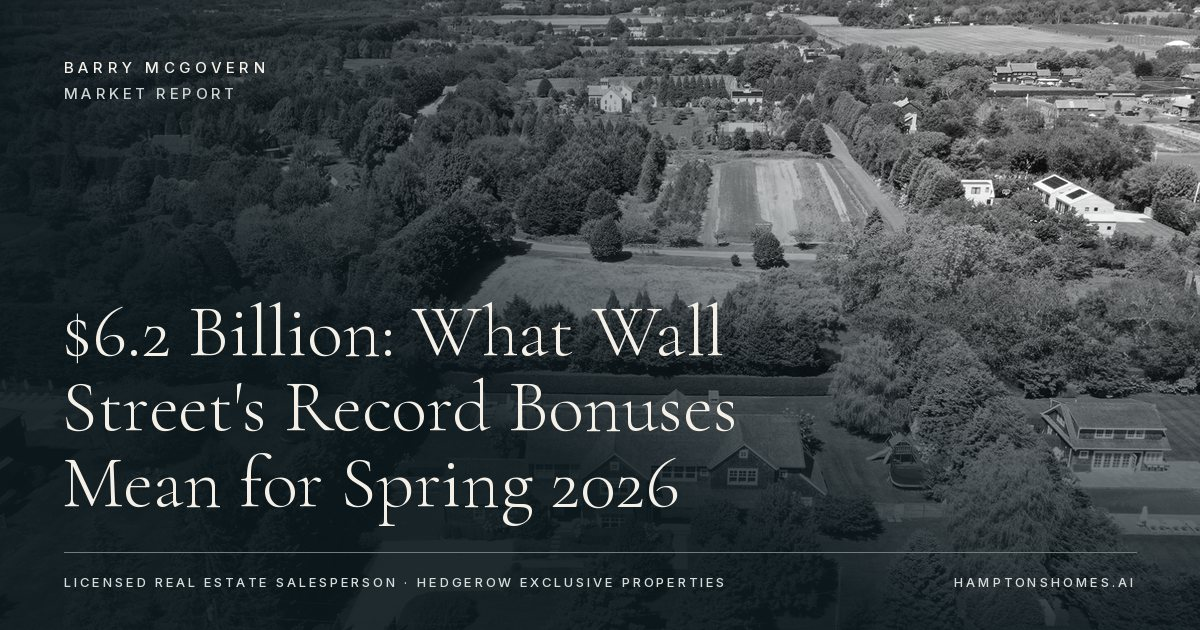
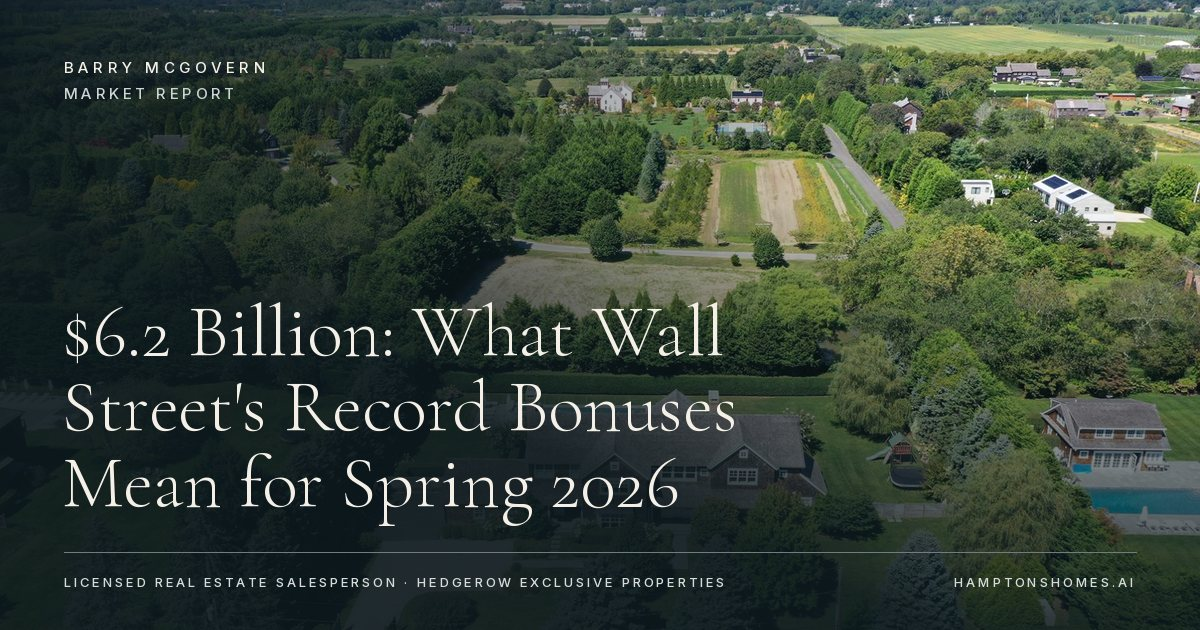
Full-colour photography sitewide; B&W kept only on the homepage hero; lighter hero gradients

diff --git a/hamptonshomes-ai/src/components/Editorial.tsx b/hamptonshomes-ai/src/components/Editorial.tsx
@@ -97,11 +97,11 @@ export function PageHero({ eyebrow, title, italic, intro, aside, footer, image, 
           style={{ objectPosition: imagePosition }}
         />
       ) : null}
-      <div aria-hidden="true" className="pointer-events-none absolute inset-x-0 top-0 -z-10 h-52 bg-gradient-to-b from-black/60 to-transparent" />
-      {image ? <div aria-hidden="true" className="pointer-events-none absolute inset-0 -z-10 bg-[rgba(12,24,29,0.32)] md:bg-[rgba(12,24,29,0.12)]" /> : null}
+      <div aria-hidden="true" className="pointer-events-none absolute inset-x-0 top-0 -z-10 h-44 bg-gradient-to-b from-black/45 to-transparent" />
+      {image ? <div aria-hidden="true" className="pointer-events-none absolute inset-0 -z-10 bg-[rgba(12,24,29,0.16)] md:bg-transparent" /> : null}
       <div
         aria-hidden="true"
-        className="pointer-events-none absolute inset-0 -z-10 bg-[linear-gradient(to_top,rgba(12,24,29,0.9)_0%,rgba(12,24,29,0.6)_30%,rgba(12,24,29,0.15)_60%,rgba(12,24,29,0)_75%),linear-gradient(to_right,rgba(12,24,29,0.45)_0%,rgba(12,24,29,0)_55%)]"
+        className="pointer-events-none absolute inset-0 -z-10 bg-[linear-gradient(to_top,rgba(12,24,29,0.78)_0%,rgba(12,24,29,0.42)_28%,rgba(12,24,29,0.08)_55%,rgba(12,24,29,0)_70%),linear-gradient(to_right,rgba(12,24,29,0.32)_0%,rgba(12,24,29,0)_50%)]"
       />
       <div className="frame flex h-full min-h-[inherit] flex-col justify-end pb-10 pt-32 md:pb-14">
         <div className="grid gap-10 md:grid-cols-12 md:items-end">

diff --git a/hamptonshomes-ai/src/app/globals.css b/hamptonshomes-ai/src/app/globals.css
@@ -97,13 +97,12 @@ body {
   opacity: 0.18;
 }
 
-/* Black-and-white photography; colour returns on hover where hover exists. */
+/* Full-colour photography with a slow scale on hover where hover exists. */
 .photo-bw {
-  filter: grayscale(1) contrast(1.06) brightness(0.98);
-  transition: filter 1.4s var(--ease-editorial), transform 1.8s var(--ease-editorial);
+  transition: transform 1.8s var(--ease-editorial);
 }
 @media (hover: hover) {
-  .group:hover .photo-bw { filter: grayscale(0.15) contrast(1.02); transform: scale(1.03); }
+  .group:hover .photo-bw { transform: scale(1.03); }
 }
 
 /* Article body: a serif drop cap opens the first paragraph of prose. */
@@ -120,8 +119,8 @@ body {
 /* Long below-the-fold sections: skip rendering work until they approach the viewport. */
 .defer-render { content-visibility: auto; contain-intrinsic-size: auto 1600px; }
 
-/* Static black-and-white treatment for hero photographs. */
-.photo-mono { filter: grayscale(1) contrast(1.06) brightness(0.96); }
+/* Hero photographs render in full colour. */
+.photo-mono { filter: none; }
 
 /* Heroes render static, exactly in their final state. The homepage photograph alone keeps a slow
    zoom-out, clipped by its full-bleed frame (no wipe, split, or unveil). */

diff --git a/hamptonshomes-ai/src/app/about/page.tsx b/hamptonshomes-ai/src/app/about/page.tsx
@@ -122,7 +122,7 @@ export default function AboutPage() {
 
       {/* Full-bleed interlude */}
       <div data-reveal="image" className="relative h-[56svh] min-h-[360px] overflow-hidden bg-ocean-deep md:h-[78svh] md:max-h-[860px]">
-        <Image src="/images/trades/442-further-lane-east-hampton.jpg" alt="442 Further Lane, East Hampton, a Hedgerow transaction, with the Atlantic beyond, in black and white" fill quality={50} sizes="100vw" className="photo-mono object-cover object-[50%_55%]" />
+        <Image src="/images/trades/442-further-lane-east-hampton.jpg" alt="442 Further Lane, East Hampton, a Hedgerow transaction, with the Atlantic beyond" fill quality={50} sizes="100vw" className="photo-mono object-cover object-[50%_55%]" />
       </div>
 
       {/* II. Specialties */}

diff --git a/hamptonshomes-ai/src/app/sales/page.tsx b/hamptonshomes-ai/src/app/sales/page.tsx
@@ -76,7 +76,7 @@ export default function SalesPage() {
         title="Hedgerow"
         italic="Portfolio"
         image="/images/43-east-dune-lane.jpg"
-        imageAlt="43 East Dune Lane, East Hampton, an oceanfront Hedgerow sale, with the Atlantic beyond, in black and white"
+        imageAlt="43 East Dune Lane, East Hampton, an oceanfront Hedgerow sale, with the Atlantic beyond"
         imagePosition="72% 40%"
         aside={
           <dl className="grid grid-cols-2 gap-8 md:text-right">

diff --git a/hamptonshomes-ai/scripts/generate-og.py b/hamptonshomes-ai/scripts/generate-og.py
@@ -61,7 +61,7 @@ def wrap(draw, text, fnt, width):
 def photo(src, pos=(0.5, 0.5)):
     im = Image.open(os.path.join(PUB, src.lstrip("/"))).convert("RGB")
     im = ImageOps.fit(im, (W, H), Image.LANCZOS, centering=pos)
-    im = ImageOps.grayscale(im).convert("RGB")
+    im = im.convert("RGB")
     return ImageEnhance.Contrast(im).enhance(1.06)
 
 
